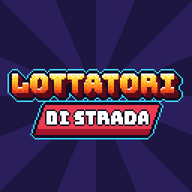
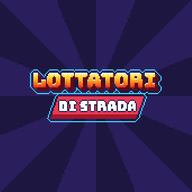
Icona adattiva: niente più bordo bianco su Android
Claude-Session: https://claude.ai/code/session_01QVsszuHkLHWx1bZHci1ABn

Changed region(s): [[0.0312, 0.3438, 0.9688, 0.75]]

diff --git a/sw.js b/sw.js
@@ -1,5 +1,5 @@
 // Lottatori di Strada - funziona anche senza rete e si aggiorna da solo.
-const VERSIONE='lds-2';
+const VERSIONE='lds-3';
 const FILE=['./','./index.html','./manifest.webmanifest','./icona-192.png','./icona-512.png'];
 self.addEventListener('install',e=>{ e.waitUntil(caches.open(VERSIONE).then(c=>c.addAll(FILE))); self.skipWaiting(); });
 self.addEventListener('activate',e=>{ e.waitUntil(caches.keys().then(k=>Promise.all(k.filter(x=>x!==VERSIONE).map(x=>caches.delete(x)))).then(()=>self.clients.claim())); });
